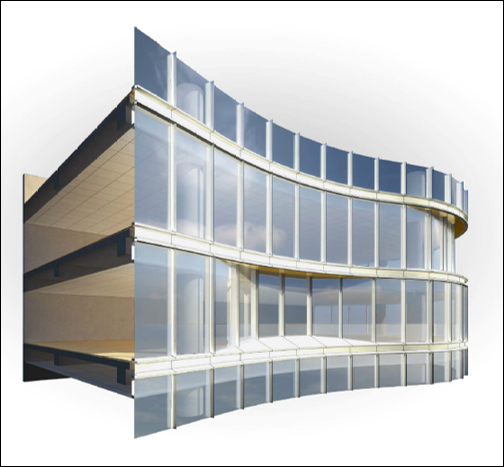
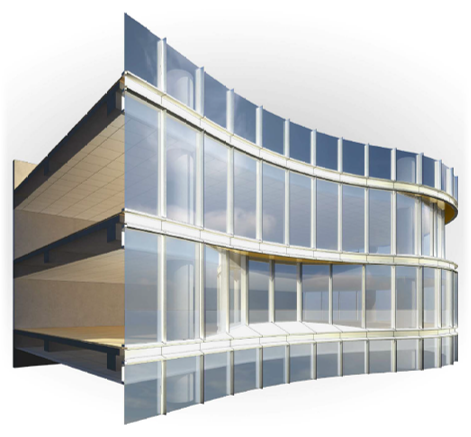
Trim the frame off the first analysis image and let it fill the box
The source render carried a 1px black border, and being nearly square it
sat small inside a 16:10 box. Crop the border and the dead margin, fade the
cut edge of the render's shadow back to white so it leaves no grey seam,
and take the box to 3/2 with less padding: the building draws 319px tall
instead of 269px. The two wide frames are width-limited, so nothing
changes for them.

Changed region(s): [[0.0, 0.0, 1.0, 1.0], [0.2378, 0.3867, 0.2675, 0.4165], [0.0, 0.0, 0.0297, 0.0297]]

diff --git a/index.html b/index.html
@@ -85,9 +85,11 @@
     .feature li::before { position:absolute; top:5px; left:0; width:14px; height:14px; border-radius:50%; background:var(--mint); color:#07844b; content:"✓"; font-size:10px; font-weight:900; line-height:14px; text-align:center; }
     /* 세 장이 차례로 바뀌는 그림. 모델 → 번호 부여 → 리스트 라는 순서 자체가 설명이다.
        세 장의 비율이 제각각(1.08 / 1.98 / 2.56)이라 cover 로 채우면 도면이 잘린다 — contain 으로 두고
-       흰 여백을 준다. 다른 figure 는 그대로 cover 를 쓰므로 .shuffle 안에서만 덮어쓴다. */
-    .feature figure .shuffle { position:relative; aspect-ratio:16/10; background:#fff; }
-    .feature figure .shuffle img { position:absolute; inset:0; width:100%; height:100%; padding:16px; aspect-ratio:auto; object-fit:contain; opacity:0; animation:shuffle 13.5s infinite; }
+       흰 여백을 준다. 다른 figure 는 그대로 cover 를 쓰므로 .shuffle 안에서만 덮어쓴다.
+       첫 장은 거의 정사각(1.08)이라 16/10 상자에서는 높이에 막혀 작게 보인다. 상자를 3/2 로 조금
+       낮추고 여백도 줄여 그만큼 키웠다 — 가로로 긴 나머지 두 장은 폭에 맞으므로 영향이 없다. */
+    .feature figure .shuffle { position:relative; aspect-ratio:3/2; background:#fff; }
+    .feature figure .shuffle img { position:absolute; inset:0; width:100%; height:100%; padding:10px; aspect-ratio:auto; object-fit:contain; opacity:0; animation:shuffle 13.5s infinite; }
     .feature figure .shuffle img:nth-child(2) { animation-delay:4.5s; }
     .feature figure .shuffle img:nth-child(3) { animation-delay:9s; }
     @keyframes shuffle { 0%,36%,100% { opacity:0; } 3%,33% { opacity:1; } }
